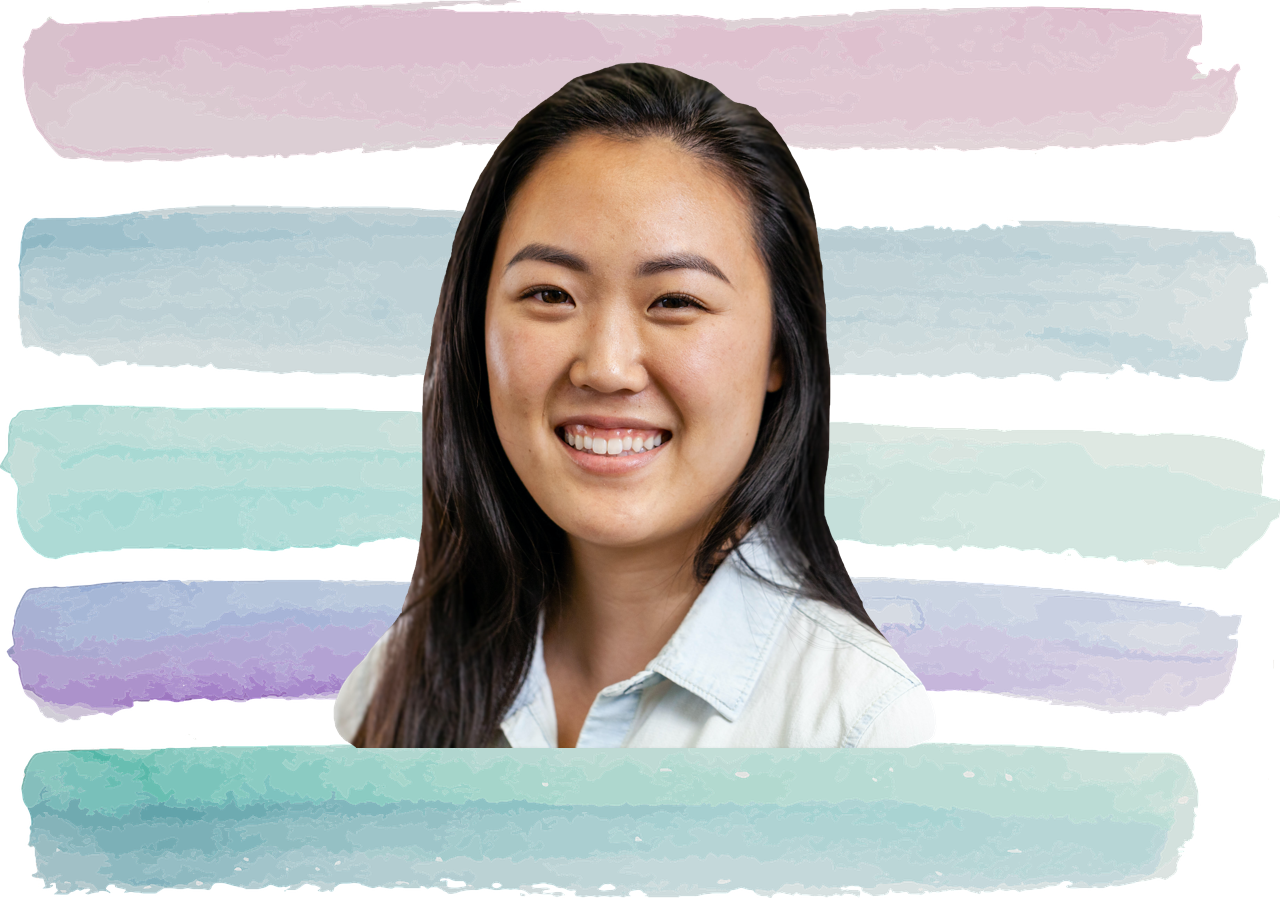
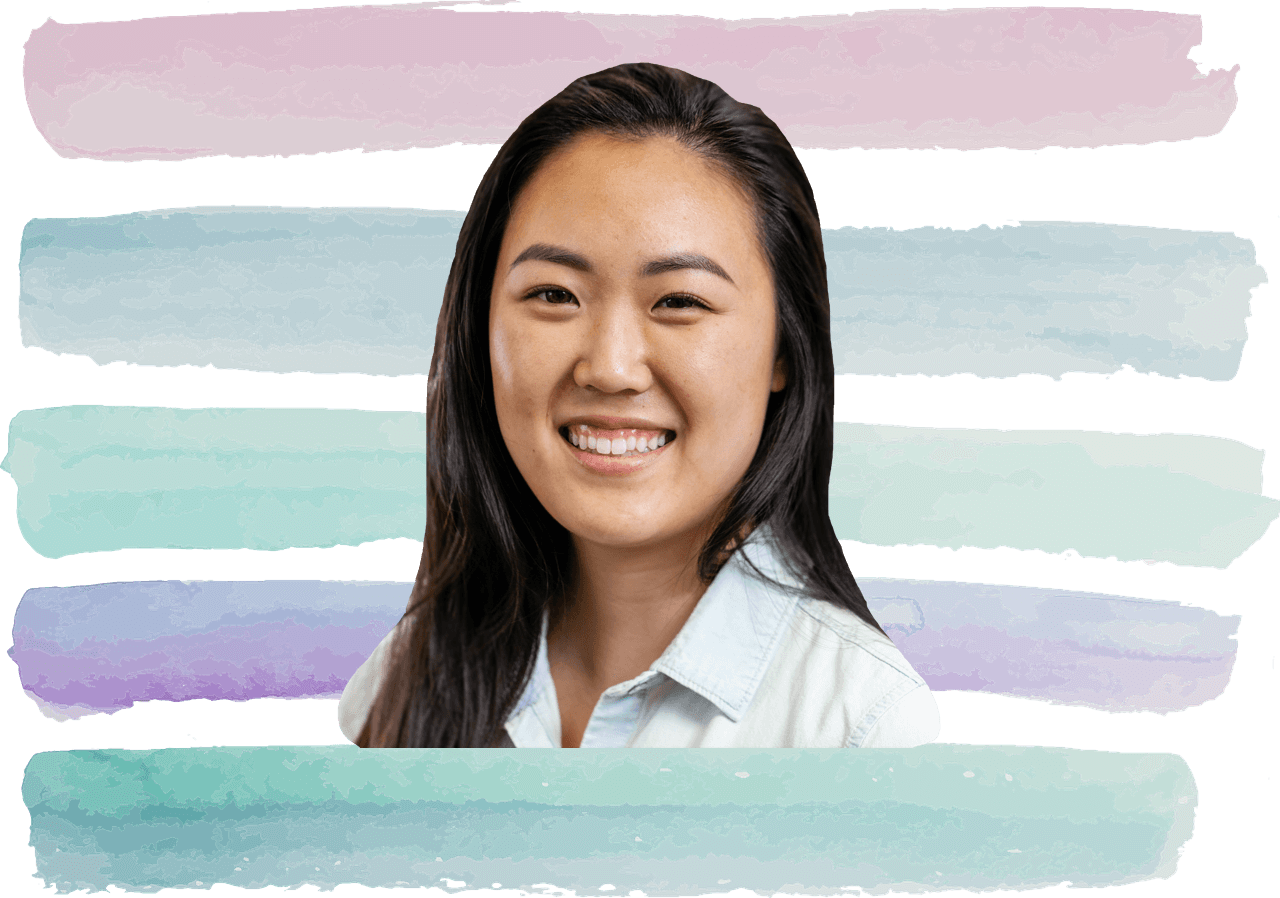
Compressed all image files

diff --git a/client/components/tools.jsx b/client/components/tools.jsx
@@ -23,7 +23,7 @@ function Tools(props) {
             <h5 className="m-3">Webpack</h5>
           </div>
           <div className="col-6 col-md-3 d-flex flex-column text-center p-4">
-            <i className="icon devicon-babel-plain colored"></i>
+            <i className="icon devicon-babel-plain"></i>
             <h5 className="m-3">Babel</h5>
           </div>
           <div className="col-6 col-md-3 d-flex flex-column text-center p-4">
